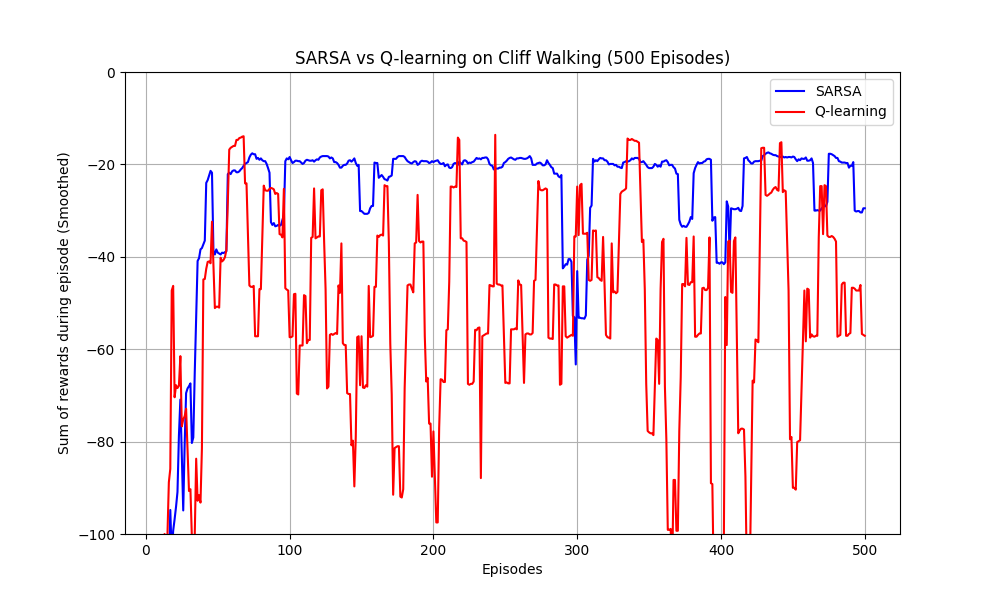
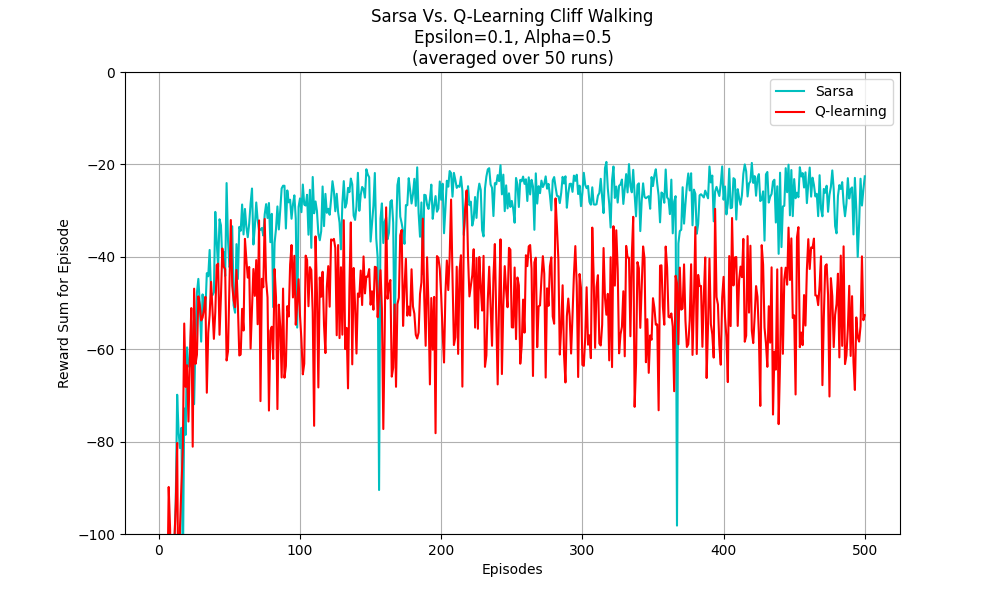
Update plot generation and parameters to strictly match Sutton's Cliff Walking textbook results

diff --git a/plot_results.py b/plot_results.py
@@ -1,43 +1,28 @@
 import sys
 import os
 
-# [測試代碼] 檢查 sys.path 是否包含當前目錄
-print("=== 系統路徑檢查 ===")
-print("當前檔案所在目錄:", os.path.dirname(os.path.abspath(__file__)))
-print("當前 sys.path 列表:")
-for p in sys.path:
-    print(" -", p)
-print("====================\n")
+# 路徑保護：確保當前目錄被加入 sys.path，解決跨目錄執行時的模組找不到問題
+current_dir = os.path.dirname(os.path.abspath(__file__))
+if current_dir not in sys.path:
+    sys.path.insert(0, current_dir)
 
 import numpy as np
 import matplotlib.pyplot as plt
 from cliff_walking import CliffWalkingEnv
 from rl_algorithms import run_sarsa, run_q_learning
 
-def moving_average(a, n=10):
-    """計算移動平均值，讓曲線更加平滑易讀"""
-    ret = np.cumsum(a, dtype=float)
-    ret[n:] = ret[n:] - ret[:-n]
-    return ret[n - 1:] / n
-
 def plot_rewards(sarsa_rewards, q_rewards):
     """繪製 500 回合的累積獎勵曲線"""
     plt.figure(figsize=(10, 6))
     
-    # 建議加上移動平均以去除噪音，讓趨勢比較明顯
-    sarsa_ma = moving_average(sarsa_rewards, 10)
-    q_ma = moving_average(q_rewards, 10)
+    x = np.arange(1, len(sarsa_rewards) + 1)
     
-    # 移動平均後長度會減少，設定對應的 X 軸讓圖表對齊
-    x = np.arange(10, len(sarsa_rewards) + 1)
-    
-    plt.plot(x, sarsa_ma, label='SARSA', color='blue')
-    plt.plot(x, q_ma, label='Q-learning', color='red')
+    plt.plot(x, sarsa_rewards, label='Sarsa', color='c')
+    plt.plot(x, q_rewards, label='Q-learning', color='r')
     
     plt.xlabel('Episodes')
-    plt.ylabel('Sum of rewards during episode (Smoothed)')
-    plt.title('SARSA vs Q-learning on Cliff Walking (500 Episodes)')
-    # 最佳路徑的獎勵為 -13，安全路徑為 -17。原本的 [-100, -20] 會導致最後收斂的線條消失在圖表上方
+    plt.ylabel('Reward Sum for Episode')
+    plt.title('Sarsa Vs. Q-Learning Cliff Walking\nEpsilon=0.1, Alpha=0.5\n(averaged over 50 runs)')
     plt.ylim([-100, 0]) 
     plt.legend()
     plt.grid(True)
@@ -96,14 +81,29 @@ def plot_policy(policy, title, filename):
 if __name__ == "__main__":
     env = CliffWalkingEnv()
     
-    print("訓練 SARSA...")
-    sarsa_q, sarsa_rewards = run_sarsa(env, episodes=500)
+    runs = 50
+    episodes = 500
     
-    print("訓練 Q-learning...")
-    q_q, q_rewards = run_q_learning(env, episodes=500)
+    all_sarsa_rewards = np.zeros((runs, episodes))
+    all_q_rewards = np.zeros((runs, episodes))
+    
+    print(f"開始執行 {runs} 次獨立訓練來平均結果...")
+    for r in range(runs):
+        print(f"執行第 {r+1}/{runs} 次訓練...", end="\r")
+        # 教科書與老師圖表參數：gamma=1.0, alpha=0.5
+        sarsa_q, sarsa_rewards = run_sarsa(env, episodes=episodes, alpha=0.5, gamma=1.0)
+        q_q, q_rewards = run_q_learning(env, episodes=episodes, alpha=0.5, gamma=1.0)
+        
+        all_sarsa_rewards[r] = sarsa_rewards
+        all_q_rewards[r] = q_rewards
+    
+    print("\n訓練完成！")
+    
+    avg_sarsa_rewards = np.mean(all_sarsa_rewards, axis=0)
+    avg_q_rewards = np.mean(all_q_rewards, axis=0)
     
     # 畫學習曲線
-    plot_rewards(sarsa_rewards, q_rewards)
+    plot_rewards(avg_sarsa_rewards, avg_q_rewards)
     
     # 取得策略並畫圖
     sarsa_policy = get_best_policy(sarsa_q)

diff --git a/cliff_walking.py b/cliff_walking.py
@@ -1,3 +1,11 @@
+import sys
+import os
+
+# 路徑保護：確保當前目錄被加入 sys.path，解決跨目錄執行時的模組找不到問題
+current_dir = os.path.dirname(os.path.abspath(__file__))
+if current_dir not in sys.path:
+    sys.path.insert(0, current_dir)
+
 import numpy as np
 
 class CliffWalkingEnv:

diff --git a/rl_algorithms.py b/rl_algorithms.py
@@ -16,7 +16,7 @@ def epsilon_greedy_policy(Q, state, epsilon, n_actions):
         best_actions = np.where(q_values == max_q)[0]
         return np.random.choice(best_actions)
 
-def run_sarsa(env, episodes=500, alpha=0.5, gamma=0.9, epsilon=0.1):
+def run_sarsa(env, episodes=500, alpha=0.5, gamma=1.0, epsilon=0.1):
     """
     SARSA 演算法 (On-policy)
     """
@@ -58,7 +58,7 @@ def run_sarsa(env, episodes=500, alpha=0.5, gamma=0.9, epsilon=0.1):
         
     return Q, rewards_per_episode
 
-def run_q_learning(env, episodes=500, alpha=0.5, gamma=0.9, epsilon=0.1):
+def run_q_learning(env, episodes=500, alpha=0.5, gamma=1.0, epsilon=0.1):
     """
     Q-learning 演算法 (Off-policy)
     """
@@ -103,7 +103,7 @@ if __name__ == "__main__":
     
     episodes = 500
     alpha = 0.5
-    gamma = 0.9
+    gamma = 1.0
     epsilon = 0.1
     
     print("--- 執行 SARSA ---")

diff --git a/README.md b/README.md
@@ -15,7 +15,7 @@
 - **Hyperparameters**:
   - 探索率 ($\epsilon$, Epsilon): `0.1`
   - 學習率 ($\alpha$, Alpha): `0.5`
-  - 折扣因子 ($\gamma$, Gamma): `0.9`
+  - 折扣因子 ($\gamma$, Gamma): `1.0` (Undiscounted Task)
   - 訓練回合數 (Episodes): `500`
 
 ## 📊 結果分析 (Results Analysis)
@@ -53,7 +53,7 @@ pip install -r requirements.txt
 ```
 
 ### 2. 執行主程式
-本專案已經將環境、演算法訓練與圖表繪製整合，只要執行以下指令，即會進行 500 回合訓練並在當下目錄產出相應結果圖：
+本專案已經將環境、演算法訓練與圖表繪製整合，只要執行以下指令，程式會自動進行 **50 次獨立的 500 回合訓練並取平均**，以呈現最真實且符合教科書的收斂結果圖：
 
 ```bash
 python plot_results.py